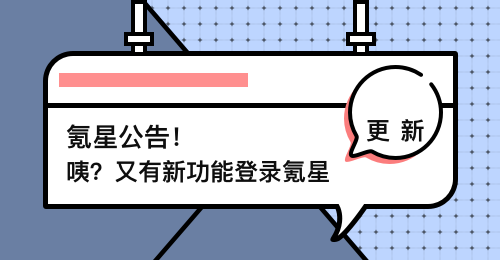
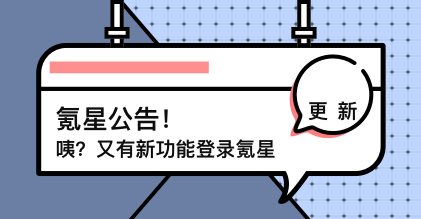
fix

diff --git a/src/Containers/UpdateLog/index.less b/src/Containers/UpdateLog/index.less
@@ -1,79 +1,76 @@
 .m-update-log {
-    height:600px;
+    height:460px;
     position: relative;
+    border-radius: 4px;
+
+    .log-close {
+        background-image:url('./images/icon_close.png');
+        background-size:contain;
+        position: absolute;
+        top:-36px;
+        right:-40px;
+        border-radius:40px;
+        width:40px;
+        height:40px;
+    }
+
     .log-header {
-        height:260px;
+        height:219px;
         background-image:url('./images/pic.png');
-        background-size:500px 260px;
+        background-size:421px 219px;
         background-repeat: no-repeat;
         position: relative;
+        border-radius:4px 4px 0 0 ;
 
         h3{
-              top: 42px;
+              top: 35px;
     position: absolute;
     font-weight: 600;
     left: 65px;
-    font-size: 22px;
+    font-size: 20px;
     color: #0E0E0E;
         }
         .time{
-            right:70px;
-            top:80px;
-            font-size: 24px;
+            right:60px;
+            top:70px;
+            font-size: 19px;
 color: #0E0E0E;
 font-weight:600;
             position: absolute;
         }
     }
     .log-body {
-        height:260px;
+      
         background-color:#fff;
-        padding-left:27px;
-        padding-right:27px;
+       
         padding-top:20px;
+        border-radius:0 0 4px 4px;
+        height:241px;
+        box-sizing:border-box;
 
         .title-main {
 font-size: 20px;
 color: #0E0E0E;
 margin-left:-10px;
 font-weight:600;
+margin-bottom:21px;
+ padding-left:27px;
+    padding-right:27px;
         }
 
         .log-list {
-            margin-top:20px;
 font-size: 16px;
 color: #333333;
-height:120px;
-overflow-y:scroll;
+  height:140px;
+  overflow-y:scroll;
+   padding-left:27px;
+    padding-right:27px;
 
             li{
                 margin-bottom:10px;
                 line-height:30px;
+                 word-break: break-all;
             }
         }
     }
-
-    .log-footer{
-
-        border-top:1px solid #ddd;
-        padding-top:10px;
-        padding-bottom:10px;
-        text-align: center;
-
-        .close-btn {
-            width:120px;
-            height:40px;
-            line-height: 40px;
-            display: inline-block;
-            border: 1px solid #394457;
-            border-radius: 4px;
-
-            font-size: 20px;
-            color: #394457;
-            cursor: pointer;
-
-        }
-
-    }
-
 }

diff --git a/src/Containers/UpdateLog/index.js b/src/Containers/UpdateLog/index.js
@@ -62,6 +62,8 @@ export default class UpdateLog extends React.Component {
             return null;
         }
 
+        ver.content = "俄方但舒服的沙发上。dsfdsfdsf 。23432432423423对方但舒服的沙发对方但舒服的沙发但舒服的沙发。32432434324324sdfsdfdsfsdfdsf。"
+
         var list = ver.content.split('。');
 
         list = list.filter(function(item){
@@ -73,7 +75,7 @@ export default class UpdateLog extends React.Component {
             <ul className="log-list">
                 {
                     list.map((item,index)=>(
-                        <li key={index}>{index+1} : {item}。</li>
+                        <li key={index}>{index+1}, {item}。</li>
                     ))
                 }
             </ul>
@@ -87,12 +89,13 @@ export default class UpdateLog extends React.Component {
 
         return (
 
-            <Dialog modal={true} open={this.state.show}
+            <Dialog ref={(name)=>this.dialog=name} modal={true} fixed={true} open={this.state.show}
                 dialogHeaderStyle={{ backgroundColor: '#fff', display: 'none' }}
-                bodyStyle={{ paddingLeft: 0, paddingRight: 0, paddingTop: 0, paddingBottom: 0, borderRadius: 5 }}
-                contentStyle={{ width: 500, height: 600 }}
+                bodyStyle={{ paddingLeft: 0, paddingRight: 0, paddingTop: 0, paddingBottom: 0, borderRadius: 4}}
+                contentStyle={{ width: 421, height: 460,borderRadius:4 }}
             >
                 <div className="m-update-log">
+                    <div className="log-close" onClick={this.close}></div>
                     <div className="log-header">
                         <h3>Kr Space -v{ver.version}</h3>
                         <span className="time">{DateFormat(ver.publishDate,'mm.dd')}</span>
@@ -100,9 +103,6 @@ export default class UpdateLog extends React.Component {
                     <div className="log-body">
                         <div className="title-main">【新功能攻略】</div>
                         {this.renderLogList()}
-                    </div>
-                    <div className="log-footer">
-                        <a className="close-btn" onClick={this.close}>关闭</a>
                     </div>
                 </div>
             </Dialog>

diff --git a/src/Components/Dialog/index.js b/src/Components/Dialog/index.js
@@ -12,6 +12,7 @@ export default class DialogComponent extends React.Component {
 
 	static defaultProps = {
 		autoScrollBodyContent: false,
+		fxied:false,
 	}
 	constructor(props, context) {
 		super(props, context);
@@ -40,6 +41,7 @@ export default class DialogComponent extends React.Component {
 		*显示遮罩层
 		*/
 		modal: React.PropTypes.bool,
+		fixed: React.PropTypes.bool,
 		/**
 		*
 		*/
@@ -140,6 +142,7 @@ export default class DialogComponent extends React.Component {
 			contentStyle,
 			footerStyle,
 			actions,
+			fixed,
 			dialogHeaderStyle,
 			...other
 		} = this.props;
@@ -163,7 +166,7 @@ export default class DialogComponent extends React.Component {
 								<div className="dialog-header-title"> {title} </div>
 								<span className="close" onClick={this.onClose} style={closeStyle}></span>
 						</div>
-						{open && <DialogBody bodyStyle={bodyStyle}> {children} </DialogBody>}
+						{open && <DialogBody bodyStyle={bodyStyle} fixed={fixed}> {children} </DialogBody>}
 						{open && actions &&  <DialogFooter footerStyle={footerStyle}> {actions} </DialogFooter>}
 				</div>
 			</div>

diff --git a/src/Components/Dialog/DialogBody/index.js b/src/Components/Dialog/DialogBody/index.js
@@ -30,6 +30,8 @@ export default class DialogBody extends React.Component {
 
 	initializeDialogBodyStyles = ()=>{
 
+		const {fixed} = this.props;
+
 		var ele = null;
 
 		try{
@@ -56,6 +58,10 @@ export default class DialogBody extends React.Component {
 
 		ele.style.maxHeight = page.height-200+'px';
 		ele.style.minHeight = 100 +'px';
+
+		if(fixed){
+			return ;
+		}
 
 		if(eleBoxStyle.height >= page.height-250){
 			ele.style.overflowY = 'scroll';
